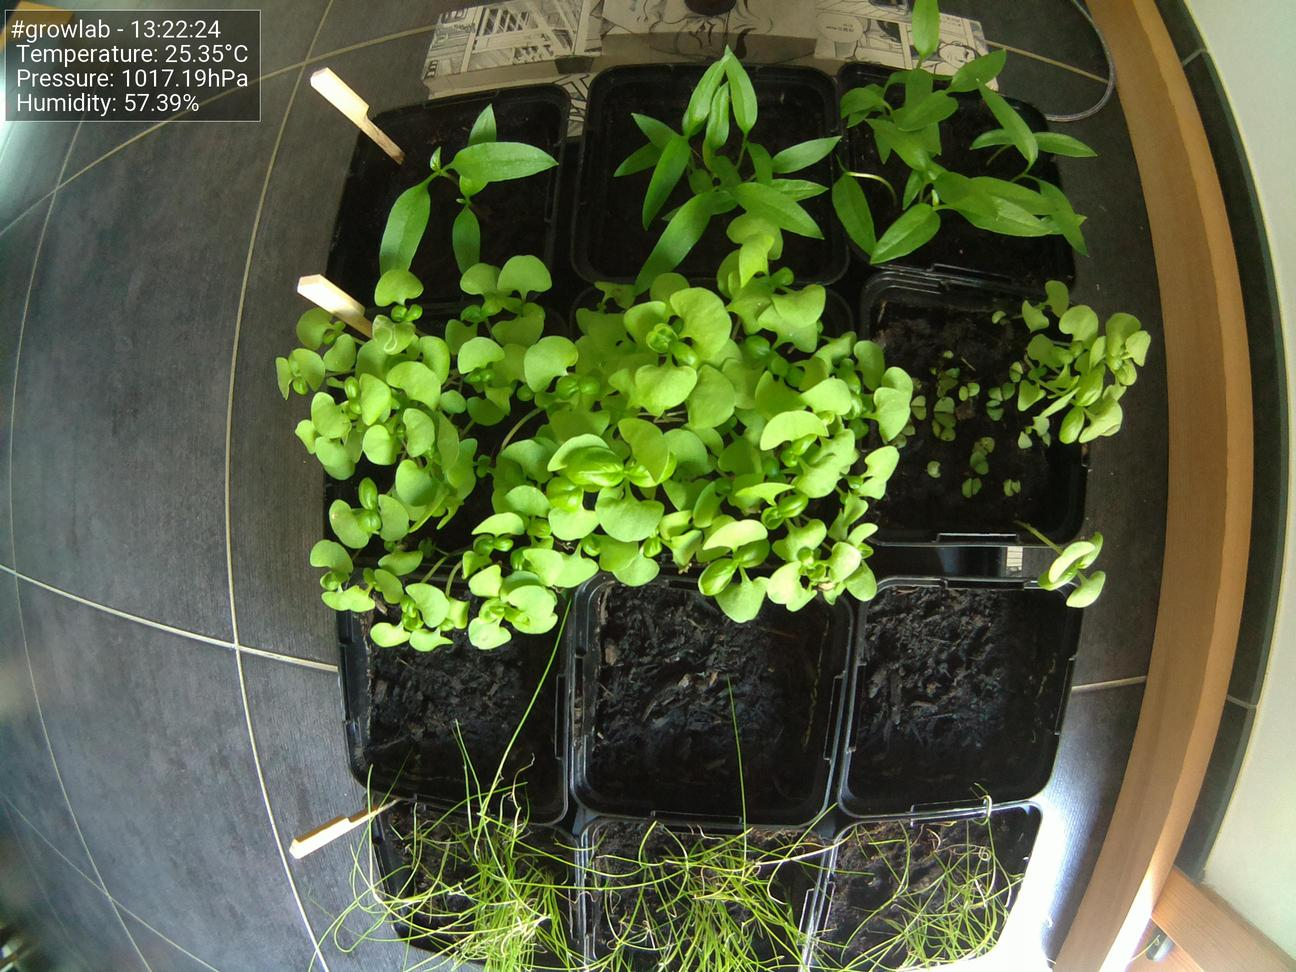
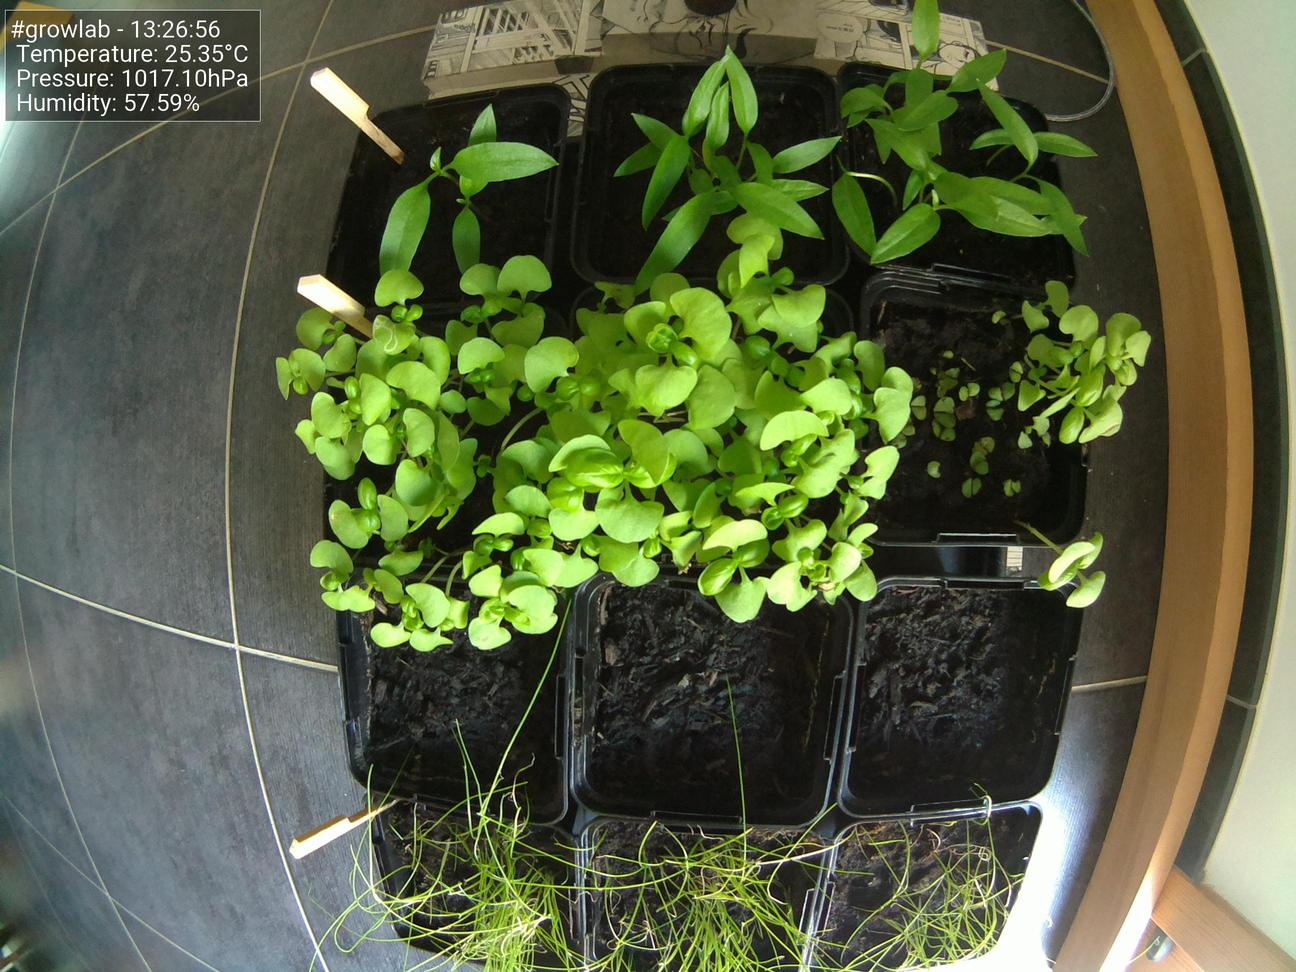
Update images at Tue 15 Jun 13:27:05 CEST 2021

diff --git a/index.html b/index.html
@@ -47,7 +47,7 @@
                         <tbody>
                             <tr>
                                 <td>Time</td>
-                                <td>13:22:24</td>
+                                <td>13:26:56</td>
                             </tr>
                             <tr>
                                 <td>Temperature</td>
@@ -55,11 +55,11 @@
                             </tr>
                             <tr>
                                 <td>Humidity</td>
-                                <td>57.39%</td>
+                                <td>57.59%</td>
                             </tr>
                             <tr>
                                 <td>Pressure</td>
-                                <td>1017.19hPa</td>
+                                <td>1017.10hPa</td>
                             </tr>
                         </tbody>
                     </table>
@@ -67,7 +67,7 @@
 
                 <h5>Latest image</h5>
                 <div style="width: 85%;">
-                            <img class="figure-img img-fluid rounded" src="./preview.jpg?uid=1623756152.7088456">
+                            <img class="figure-img img-fluid rounded" src="./preview.jpg?uid=1623756424.6892352">
                 </div>
             </div>
         </div>
